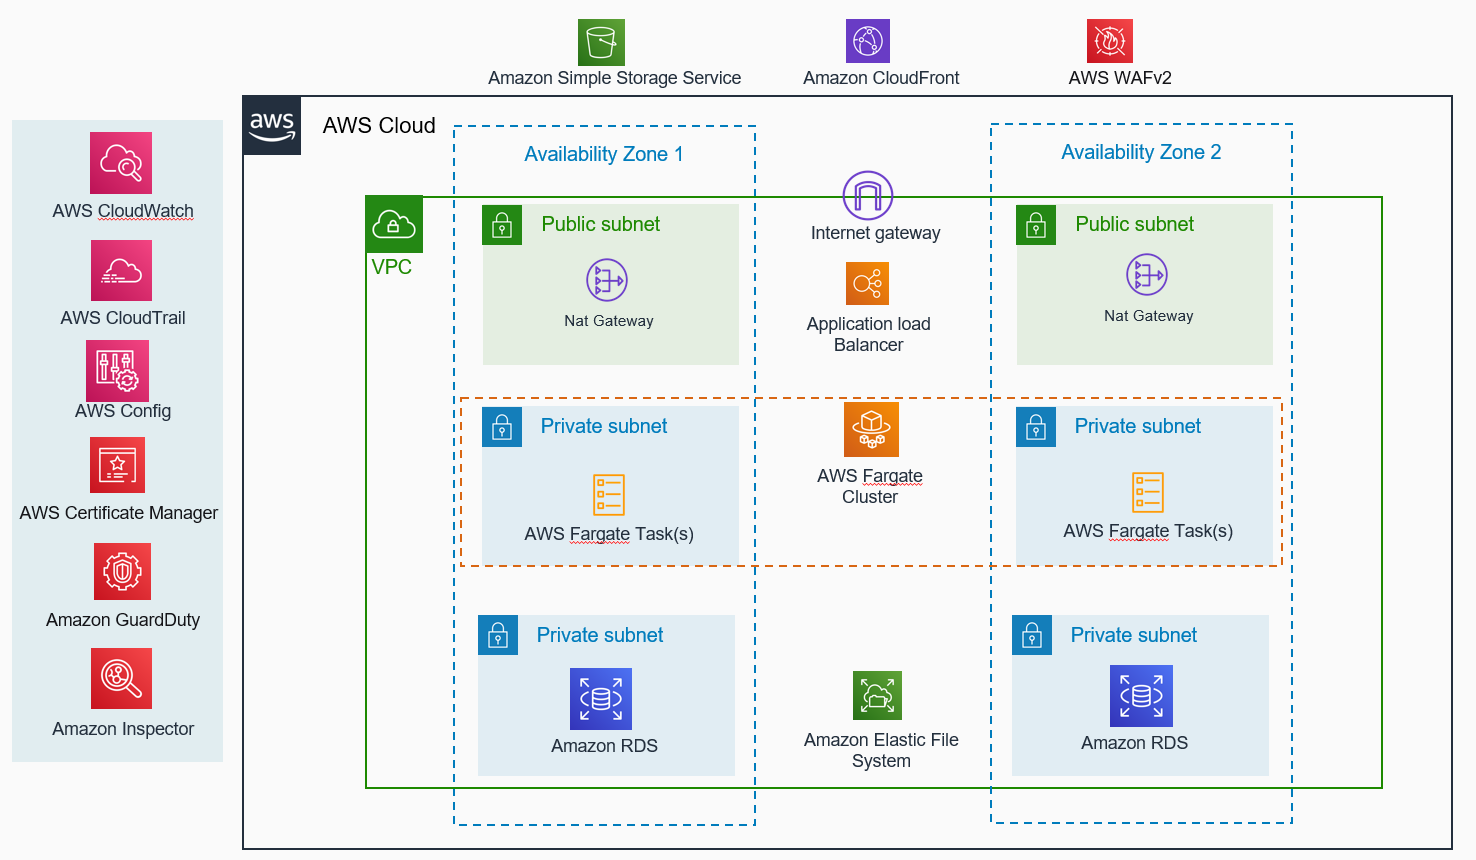
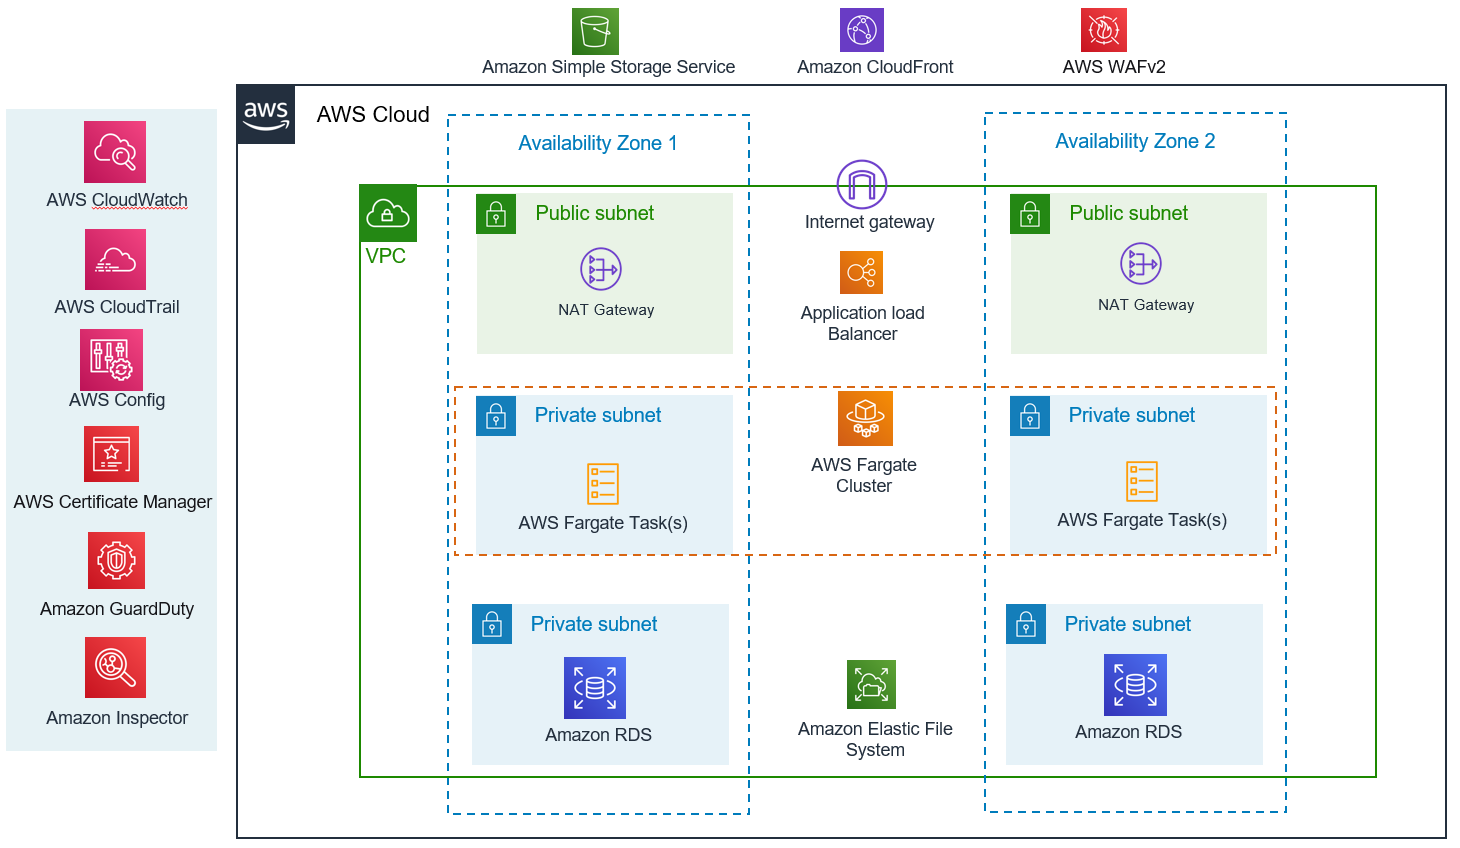
Architecture diagram minor fixes, README.md simplification.

diff --git a/README.md b/README.md
@@ -1,6 +1,4 @@
-**Application Migration Workshop**
-
-Step-by-step instructions are available at https://application-migration-with-aws.workshop.aws/
+**Application Migration Workshop** - https://application-migration-with-aws.workshop.aws/
 
 Self-paced activity that allows you to learn how to migrate applications to AWS cloud:  
   - Re-hosting of webserver with [AWS CloudEndure Migration](https://aws.amazon.com/cloudendure-migration/)  
